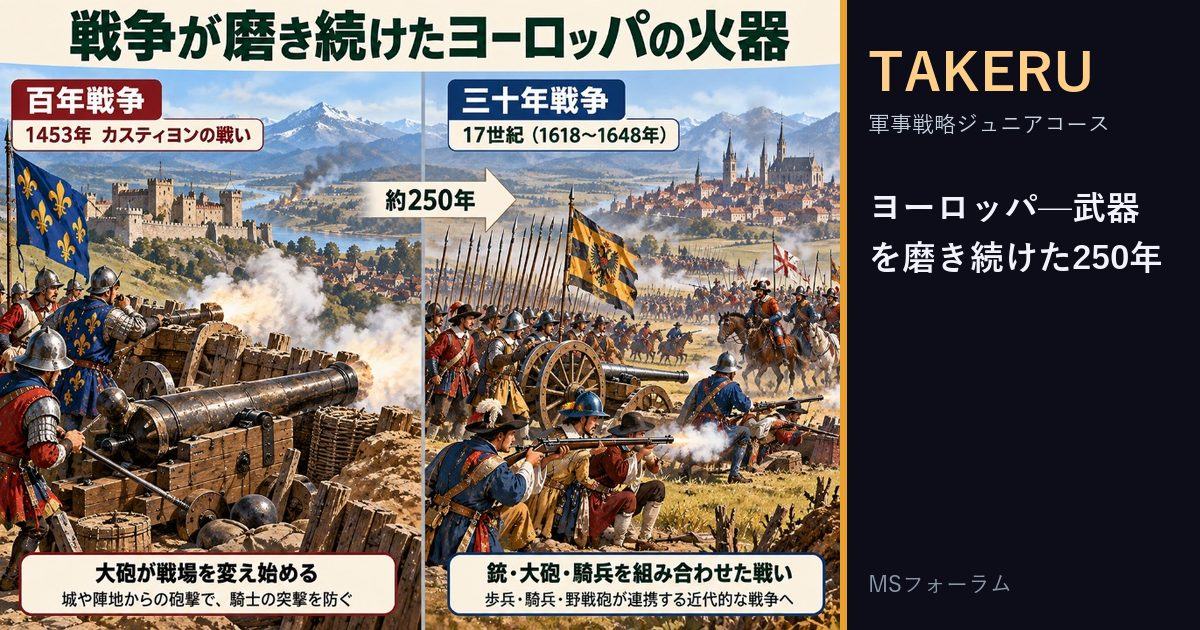
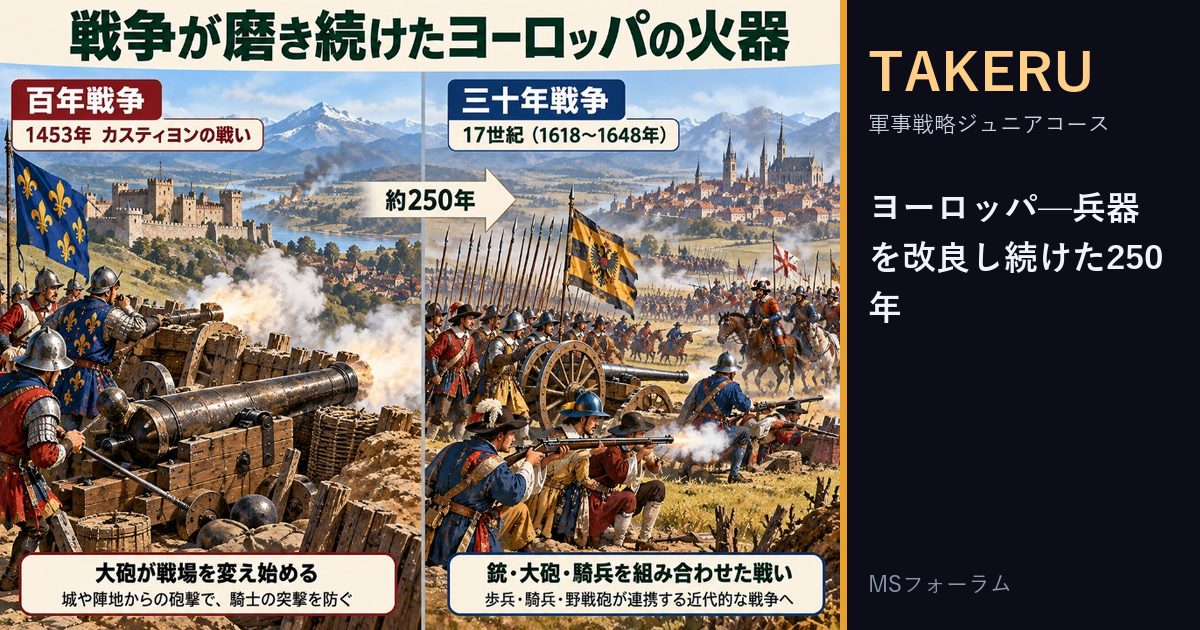
内容更新 2026-10-29 19:00

Changed region(s): [[0.74, 0.3619, 0.9867, 0.4524], [0.7092, 0.4524, 0.7708, 0.5127], [0.8942, 0.3016, 0.925, 0.3619]]

diff --git a/staging/TAKERU/c/GNPF06.html b/staging/TAKERU/c/GNPF06.html
@@ -3,13 +3,13 @@
 <head>
 <meta charset="UTF-8">
 <meta name="viewport" content="width=device-width, initial-scale=1.0">
-<title>ヨーロッパ—武器を磨き続けた250年｜TAKERU</title>
+<title>ヨーロッパ—兵器を改良し続けた250年｜TAKERU</title>
 <!-- このページは editor/make_card_pages.py が作ります。手で直さないでください -->
 <meta name="robots" content="noindex">
 <meta name="description" content="清やオスマンが巨大な帝国として平和を保っていたころ、ヨーロッパは違いました。">
 <meta property="og:type" content="article">
 <meta property="og:site_name" content="軍事戦略ジュニアコース TAKERU（一般社団法人ＭＳフォーラム）">
-<meta property="og:title" content="ヨーロッパ—武器を磨き続けた250年">
+<meta property="og:title" content="ヨーロッパ—兵器を改良し続けた250年">
 <meta property="og:description" content="清やオスマンが巨大な帝国として平和を保っていたころ、ヨーロッパは違いました。">
 <meta property="og:url" content="https://takeru.ms-forum.com/c/GNPF06.html">
 <meta property="og:image" content="https://takeru.ms-forum.com/c/img/GNPF06.jpg">
@@ -28,7 +28,7 @@
 <style>body{background:#0d0d1a;color:#dde3f0;font-family:sans-serif;padding:24px;line-height:1.7}a{color:#ffcf8a}</style>
 </head>
 <body>
-<p>TAKERU のカード「ヨーロッパ—武器を磨き続けた250年」を開きます。</p>
+<p>TAKERU のカード「ヨーロッパ—兵器を改良し続けた250年」を開きます。</p>
 <p><a href="/?card=GNPF06&amp;src=x">開かないときは、ここを押してください</a></p>
 </body>
 </html>
